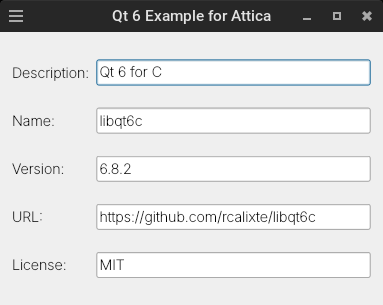
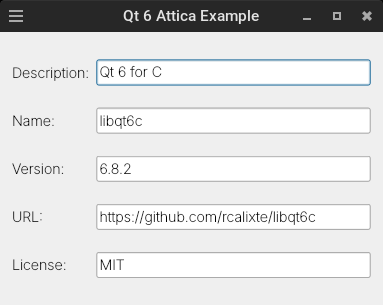
attica: Update window title

Changed region(s): [[0.2872, 0.0295, 0.718, 0.0885]]

diff --git a/src/libraries/extras/attica/main.c b/src/libraries/extras/attica/main.c
@@ -12,7 +12,7 @@ int main(int argc, char* argv[]) {
     k_attica__project_set_license(project, "MIT");
 
     QWidget* widget = q_widget_new2();
-    q_widget_set_window_title(widget, "Qt 6 Example for Attica");
+    q_widget_set_window_title(widget, "Qt 6 Attica Example");
     q_widget_set_minimum_size2(widget, 350, 250);
 
     QLabel* desc = q_label_new3("Description:");
